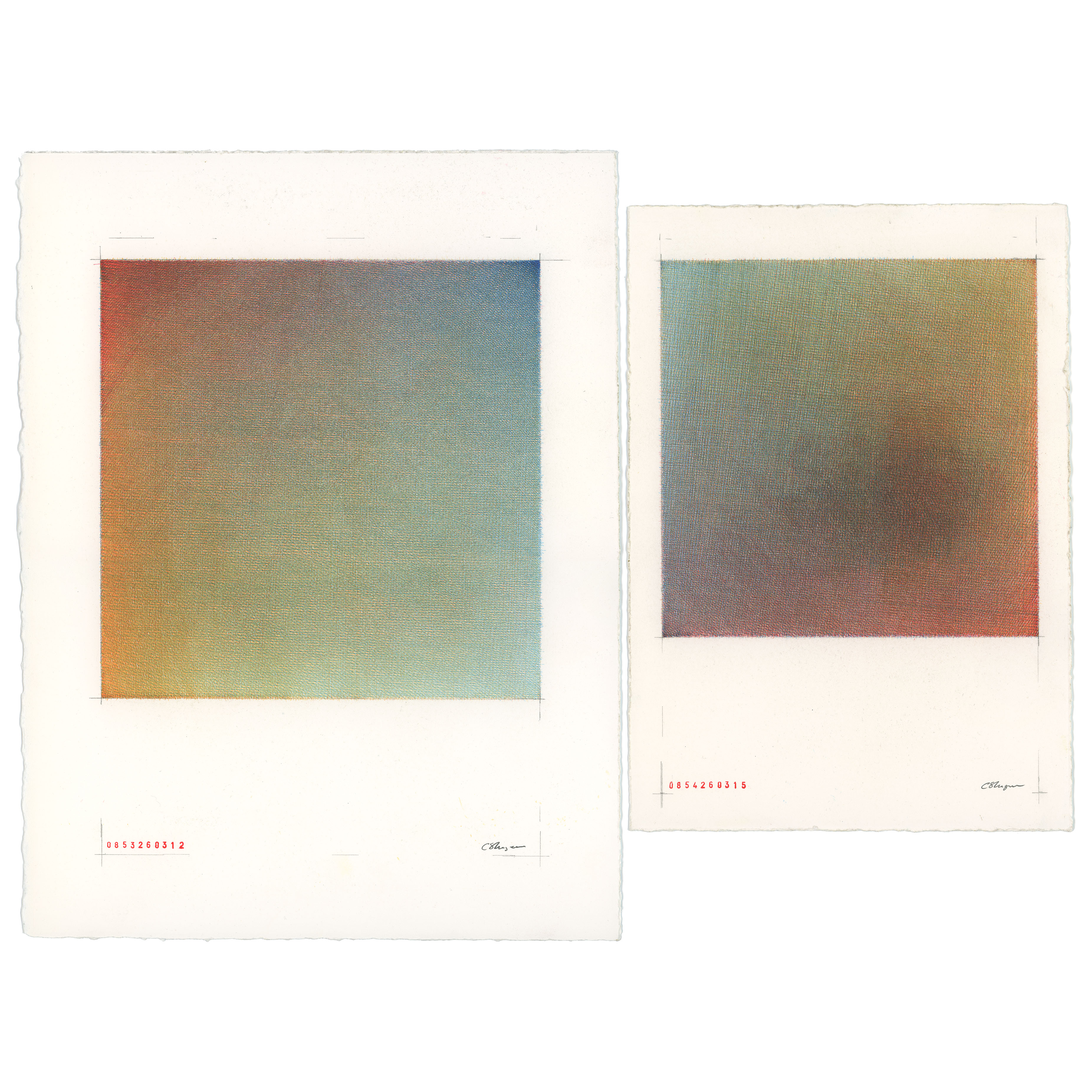
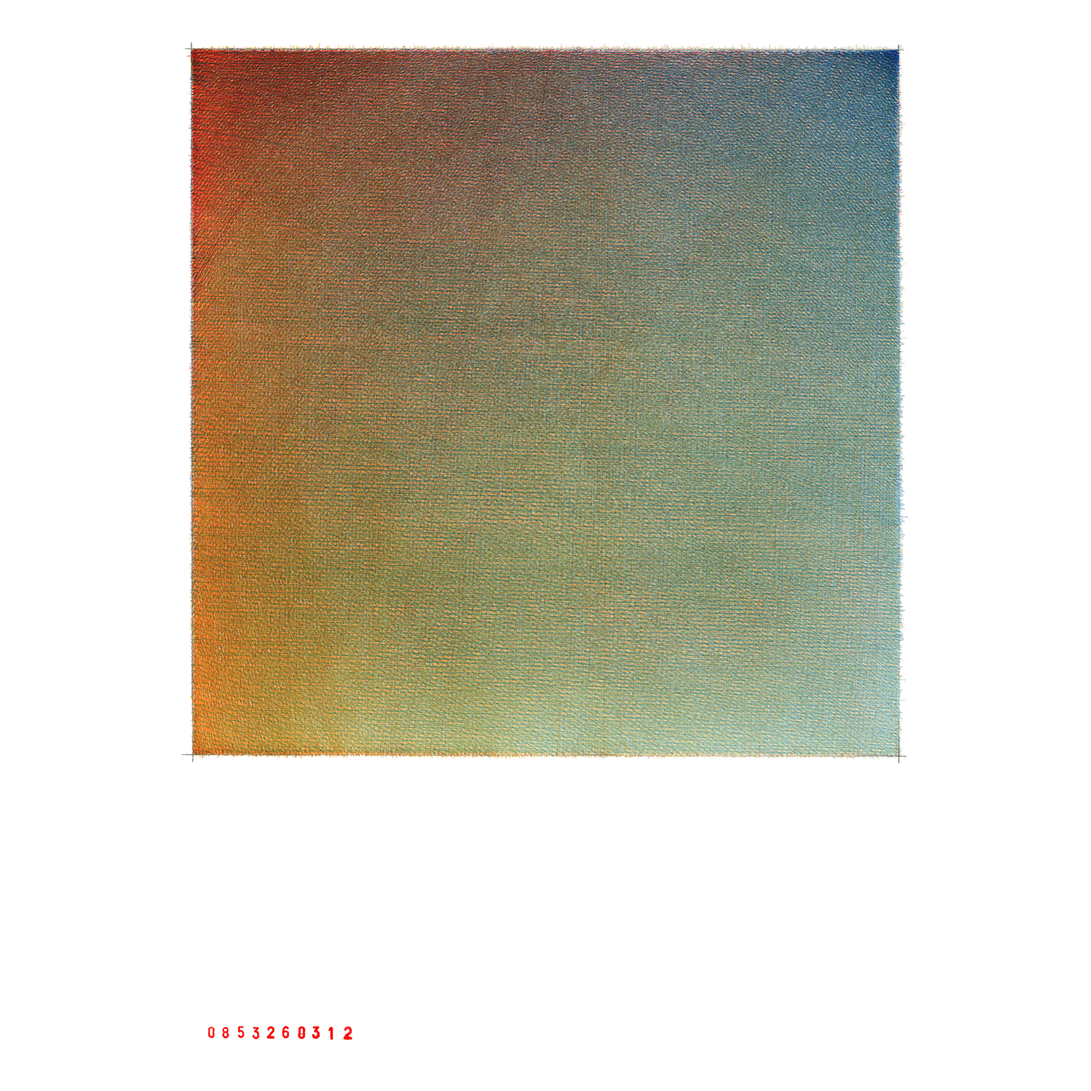
3 01 images

diff --git a/drawings/tegning_nr852_01.html b/drawings/tegning_nr852_01.html
@@ -3,8 +3,8 @@
 <head>
 <meta charset="utf-8">
 <meta name="viewport" content="width=device-width, initial-scale=1">
-<title>tegning nr 704, image 01 – Christian Skagen</title>
-<meta name="description" content="Contemporary ink drawing tegning nr 704, image 01 by Norwegian artist Christian Skagen. Part of a sequential online archive of numbered drawings.">
+<title>tegning nr 852, image 01 – Christian Skagen</title>
+<meta name="description" content="Contemporary ink drawing tegning nr 852, image 01 by Norwegian artist Christian Skagen. Part of a sequential online archive of numbered drawings.">
 <meta name="keywords" content="Christian Skagen, Norwegian artist, contemporary drawing, ink drawing, conceptual drawing, sequential archive, visual art">
 <meta name="robots" content="index,follow,max-image-preview:large">
 <script type="application/ld+json">
@@ -25,13 +25,13 @@
     },
     {
       "@type": "VisualArtwork",
-      "@id": "https://cskagen.github.io/drawings/tegning_nr704_01.html#artwork",
-      "url": "https://cskagen.github.io/drawings/tegning_nr704_01.html",
-      "name": "tegning nr 704, image 01",
+      "@id": "https://cskagen.github.io/drawings/tegning_nr852_01.html#artwork",
+      "url": "https://cskagen.github.io/drawings/tegning_nr852_01.html",
+      "name": "tegning nr 852, image 01",
       "creator": {
         "@id": "https://cskagen.github.io/#person"
       },
-      "image": "https://cskagen.github.io/images/tegning_nr704_01.jpg",
+      "image": "https://cskagen.github.io/images/tegning_nr852_01.jpg",
       "artform": "Drawing",
       "artMedium": "Fountain pen and ruler on paper",
       "genre": "Contemporary drawing",
@@ -42,17 +42,17 @@
     },
     {
       "@type": "ImageObject",
-      "@id": "https://cskagen.github.io/images/tegning_nr704_01.jpg#image",
-      "contentUrl": "https://cskagen.github.io/images/tegning_nr704_01.jpg",
-      "url": "https://cskagen.github.io/images/tegning_nr704_01.jpg",
-      "description": "Ink drawing nr 704, image 01, by Christian Skagen",
+      "@id": "https://cskagen.github.io/images/tegning_nr852_01.jpg#image",
+      "contentUrl": "https://cskagen.github.io/images/tegning_nr852_01.jpg",
+      "url": "https://cskagen.github.io/images/tegning_nr852_01.jpg",
+      "description": "Ink drawing nr 852, image 01, by Christian Skagen",
       "creator": {
         "@id": "https://cskagen.github.io/#person"
       }
     },
     {
       "@type": "BreadcrumbList",
-      "@id": "https://cskagen.github.io/drawings/tegning_nr704_01.html#breadcrumb",
+      "@id": "https://cskagen.github.io/drawings/tegning_nr852_01.html#breadcrumb",
       "itemListElement": [
         {
           "@type": "ListItem",
@@ -69,36 +69,36 @@
         {
           "@type": "ListItem",
           "position": 3,
-          "name": "tegning nr 704, image 01",
-          "item": "https://cskagen.github.io/drawings/tegning_nr704_01.html"
+          "name": "tegning nr 852, image 01",
+          "item": "https://cskagen.github.io/drawings/tegning_nr852_01.html"
         }
       ]
     }
   ]
 }
 </script>
-<link rel="canonical" href="https://cskagen.github.io/drawings/tegning_nr704_01.html">
+<link rel="canonical" href="https://cskagen.github.io/drawings/tegning_nr852_01.html">
 <meta property="og:type" content="website">
 <meta property="og:site_name" content="Christian Skagen – drawings">
 <meta property="og:locale" content="en">
-<meta property="og:title" content="tegning nr 704, image 01 – Christian Skagen">
-<meta property="og:description" content="Contemporary ink drawing tegning nr 704, image 01 by Norwegian artist Christian Skagen. Part of a sequential online archive of numbered drawings.">
-<meta property="og:url" content="https://cskagen.github.io/drawings/tegning_nr704_01.html">
-<meta property="og:image" content="https://cskagen.github.io/images/tegning_nr704_01.jpg">
+<meta property="og:title" content="tegning nr 852, image 01 – Christian Skagen">
+<meta property="og:description" content="Contemporary ink drawing tegning nr 852, image 01 by Norwegian artist Christian Skagen. Part of a sequential online archive of numbered drawings.">
+<meta property="og:url" content="https://cskagen.github.io/drawings/tegning_nr852_01.html">
+<meta property="og:image" content="https://cskagen.github.io/images/tegning_nr852_01.jpg">
 <meta name="twitter:card" content="summary_large_image">
-<meta name="twitter:title" content="tegning nr 704, image 01 – Christian Skagen">
-<meta name="twitter:description" content="Contemporary ink drawing tegning nr 704, image 01 by Norwegian artist Christian Skagen. Part of a sequential online archive of numbered drawings.">
-<meta name="twitter:image" content="https://cskagen.github.io/images/tegning_nr704_01.jpg">
+<meta name="twitter:title" content="tegning nr 852, image 01 – Christian Skagen">
+<meta name="twitter:description" content="Contemporary ink drawing tegning nr 852, image 01 by Norwegian artist Christian Skagen. Part of a sequential online archive of numbered drawings.">
+<meta name="twitter:image" content="https://cskagen.github.io/images/tegning_nr852_01.jpg">
 <link rel="stylesheet" href="../css/style.css">
 </head>
 <body>
 <div class="wrapper">
 <h1>
-<a href="../images/tegning_nr704_01.jpg" target="_blank">tegning_nr704_01</a>
+<a href="../images/tegning_nr852_01.jpg" target="_blank">tegning_nr852_01</a>
 </h1>
 <div class="image-area" id="swipe-area">
-  <a href="tegning_nr705.html">
-    <img src="../images/tegning_nr704_01.jpg" alt="Ink drawing nr 704, image 01, by Christian Skagen" loading="eager" decoding="async">
+  <a href="tegning_nr853.html">
+    <img src="../images/tegning_nr852_01.jpg" alt="Ink drawing nr 852, image 01, by Christian Skagen" loading="eager" decoding="async">
   </a>
 </div>
 <div class="prompt-wrap">
@@ -109,8 +109,8 @@
 <script src="../js/viewer.js"></script>
 <script>
 setupViewer({
-  nextPage: "tegning_nr705.html",
-  prevPage: "tegning_nr704.html",
+  nextPage: "tegning_nr853.html",
+  prevPage: "tegning_nr852.html",
   latestPage: "tegning_latest.html",
   firstPage: "tegning_nr600.html",
   homePage: "/",

diff --git a/archive.html b/archive.html
@@ -51,11 +51,11 @@
 <meta property="og:title" content="archive – Christian Skagen">
 <meta property="og:description" content="Sequential archive of numbered ink drawings by Norwegian artist Christian Skagen.">
 <meta property="og:url" content="https://cskagen.github.io/archive.html">
-<meta property="og:image" content="https://cskagen.github.io/images/tegning_nr854.jpg">
+<meta property="og:image" content="https://cskagen.github.io/images/tegning_nr854_01.jpg">
 <meta name="twitter:card" content="summary_large_image">
 <meta name="twitter:title" content="archive – Christian Skagen">
 <meta name="twitter:description" content="Sequential archive of numbered ink drawings by Norwegian artist Christian Skagen.">
-<meta name="twitter:image" content="https://cskagen.github.io/images/tegning_nr854.jpg">
+<meta name="twitter:image" content="https://cskagen.github.io/images/tegning_nr854_01.jpg">
 <link rel="stylesheet" href="css/style.css">
 <style>
 .archive-grid{width:100%;max-width:1400px;margin:auto;display:grid;grid-template-columns:repeat(9,1fr);gap:4px 12px;font-size:13px;line-height:1.35;}
@@ -172,7 +172,6 @@
 <div class="archive-item"><a href="drawings/tegning_nr702.html">702</a></div>
 <div class="archive-item"><a href="drawings/tegning_nr703.html">703</a></div>
 <div class="archive-item"><a href="drawings/tegning_nr704.html">704</a></div>
-<div class="archive-item"><a href="drawings/tegning_nr704_01.html">704_01</a></div>
 <div class="archive-item"><a href="drawings/tegning_nr705.html">705</a></div>
 <div class="archive-item"><a href="drawings/tegning_nr706.html">706</a></div>
 <div class="archive-item"><a href="drawings/tegning_nr707.html">707</a></div>
@@ -296,9 +295,11 @@
 <div class="archive-item"><a href="drawings/tegning_nr850.html">850</a></div>
 <div class="archive-item"><a href="drawings/tegning_nr851.html">851</a></div>
 <div class="archive-item"><a href="drawings/tegning_nr852.html">852</a></div>
+<div class="archive-item"><a href="drawings/tegning_nr852_01.html">852_01</a></div>
 <div class="archive-item"><a href="drawings/tegning_nr853.html">853</a></div>
 <div class="archive-item"><a href="drawings/tegning_nr853_01.html">853_01</a></div>
 <div class="archive-item"><a href="drawings/tegning_nr854.html">854</a></div>
+<div class="archive-item"><a href="drawings/tegning_nr854_01.html">854_01</a></div>
 </div>
 </div>
 <div class="prompt-wrap">

diff --git a/index.html b/index.html
@@ -52,11 +52,11 @@
 <meta property="og:title" content="Christian Skagen – drawings">
 <meta property="og:description" content="Christian Skagen is a Norwegian visual artist working with systematic ink drawing, sequential archives, and constructed meditative image fields.">
 <meta property="og:url" content="https://cskagen.github.io/">
-<meta property="og:image" content="https://cskagen.github.io/images/tegning_nr854.jpg">
+<meta property="og:image" content="https://cskagen.github.io/images/tegning_nr854_01.jpg">
 <meta name="twitter:card" content="summary_large_image">
 <meta name="twitter:title" content="Christian Skagen – drawings">
 <meta name="twitter:description" content="Christian Skagen is a Norwegian visual artist working with systematic ink drawing, sequential archives, and constructed meditative image fields.">
-<meta name="twitter:image" content="https://cskagen.github.io/images/tegning_nr854.jpg">
+<meta name="twitter:image" content="https://cskagen.github.io/images/tegning_nr854_01.jpg">
 <link rel="stylesheet" href="css/style.css">
 <style>
 .index-text{
@@ -112,7 +112,7 @@ archive
 print
 xxx (enter drawing number)</div>
 </div>
-<p class="visually-hidden">Christian Skagen is a Norwegian visual artist working with systematic ink drawing, sequential archives, and constructed meditative image fields. The archive currently spans numbered drawings from tegning nr 600 to tegning nr 854.</p>
+<p class="visually-hidden">Christian Skagen is a Norwegian visual artist working with systematic ink drawing, sequential archives, and constructed meditative image fields. The archive currently spans numbered drawings from tegning nr 600 to tegning nr 854, image 01.</p>
 <div class="prompt-wrap">
 <span class="prompt">&gt;</span>
 <input id="command" type="text" autocomplete="off" spellcheck="false" aria-label="Command input">

diff --git a/archive_report.html b/archive_report.html
@@ -21,13 +21,14 @@
 <h1><a href="/">archive report</a></h1>
 <div class="image-area" id="swipe-area">
 <div class="report-wrap">
-<div class="report-meta">Total items: 225
+<div class="report-meta">Total items: 226
 Base drawings: 223
-Attached images: 2
+Attached images: 3
 First: tegning_nr600
-Latest: tegning_nr854
+Latest: tegning_nr854_01
 
 Warnings:
+Ignored file: .DS_Store
 Ignored file: test.txt</div>
 <div class="report-sequence-label">Sequence:</div>
 <div class="report-grid">
@@ -129,7 +130,6 @@ Ignored file: test.txt</div>
 <div class="report-item">tegning_nr702</div>
 <div class="report-item">tegning_nr703</div>
 <div class="report-item">tegning_nr704</div>
-<div class="report-item">tegning_nr704_01</div>
 <div class="report-item">tegning_nr705</div>
 <div class="report-item">tegning_nr706</div>
 <div class="report-item">tegning_nr707</div>
@@ -253,9 +253,11 @@ Ignored file: test.txt</div>
 <div class="report-item">tegning_nr850</div>
 <div class="report-item">tegning_nr851</div>
 <div class="report-item">tegning_nr852</div>
+<div class="report-item">tegning_nr852_01</div>
 <div class="report-item">tegning_nr853</div>
 <div class="report-item">tegning_nr853_01</div>
 <div class="report-item">tegning_nr854</div>
+<div class="report-item">tegning_nr854_01</div>
 </div>
 </div>
 </div>

diff --git a/drawings/tegning_nr854.html b/drawings/tegning_nr854.html
@@ -97,7 +97,9 @@
 <a href="../images/tegning_nr854.jpg" target="_blank">tegning_nr854</a>
 </h1>
 <div class="image-area" id="swipe-area">
-  <img src="../images/tegning_nr854.jpg" alt="Ink drawing nr 854 by Christian Skagen" loading="eager" decoding="async">
+  <a href="tegning_nr854_01.html">
+    <img src="../images/tegning_nr854.jpg" alt="Ink drawing nr 854 by Christian Skagen" loading="eager" decoding="async">
+  </a>
 </div>
 <div class="prompt-wrap">
 <span class="prompt">&gt;</span>
@@ -107,7 +109,7 @@
 <script src="../js/viewer.js"></script>
 <script>
 setupViewer({
-  nextPage: null,
+  nextPage: "tegning_nr854_01.html",
   prevPage: "tegning_nr853_01.html",
   latestPage: "tegning_latest.html",
   firstPage: "tegning_nr600.html",

diff --git a/drawings/tegning_nr704.html b/drawings/tegning_nr704.html
@@ -97,7 +97,7 @@
 <a href="../images/tegning_nr704.jpg" target="_blank">tegning_nr704</a>
 </h1>
 <div class="image-area" id="swipe-area">
-  <a href="tegning_nr704_01.html">
+  <a href="tegning_nr705.html">
     <img src="../images/tegning_nr704.jpg" alt="Ink drawing nr 704 by Christian Skagen" loading="eager" decoding="async">
   </a>
 </div>
@@ -109,7 +109,7 @@
 <script src="../js/viewer.js"></script>
 <script>
 setupViewer({
-  nextPage: "tegning_nr704_01.html",
+  nextPage: "tegning_nr705.html",
   prevPage: "tegning_nr703.html",
   latestPage: "tegning_latest.html",
   firstPage: "tegning_nr600.html",

diff --git a/drawings/tegning_nr852.html b/drawings/tegning_nr852.html
@@ -97,7 +97,7 @@
 <a href="../images/tegning_nr852.jpg" target="_blank">tegning_nr852</a>
 </h1>
 <div class="image-area" id="swipe-area">
-  <a href="tegning_nr853.html">
+  <a href="tegning_nr852_01.html">
     <img src="../images/tegning_nr852.jpg" alt="Ink drawing nr 852 by Christian Skagen" loading="eager" decoding="async">
   </a>
 </div>
@@ -109,7 +109,7 @@
 <script src="../js/viewer.js"></script>
 <script>
 setupViewer({
-  nextPage: "tegning_nr853.html",
+  nextPage: "tegning_nr852_01.html",
   prevPage: "tegning_nr851.html",
   latestPage: "tegning_latest.html",
   firstPage: "tegning_nr600.html",

diff --git a/drawings/tegning_nr853.html b/drawings/tegning_nr853.html
@@ -110,7 +110,7 @@
 <script>
 setupViewer({
   nextPage: "tegning_nr853_01.html",
-  prevPage: "tegning_nr852.html",
+  prevPage: "tegning_nr852_01.html",
   latestPage: "tegning_latest.html",
   firstPage: "tegning_nr600.html",
   homePage: "/",

diff --git a/drawings/tegning_nr705.html b/drawings/tegning_nr705.html
@@ -110,7 +110,7 @@
 <script>
 setupViewer({
   nextPage: "tegning_nr706.html",
-  prevPage: "tegning_nr704_01.html",
+  prevPage: "tegning_nr704.html",
   latestPage: "tegning_latest.html",
   firstPage: "tegning_nr600.html",
   homePage: "/",
